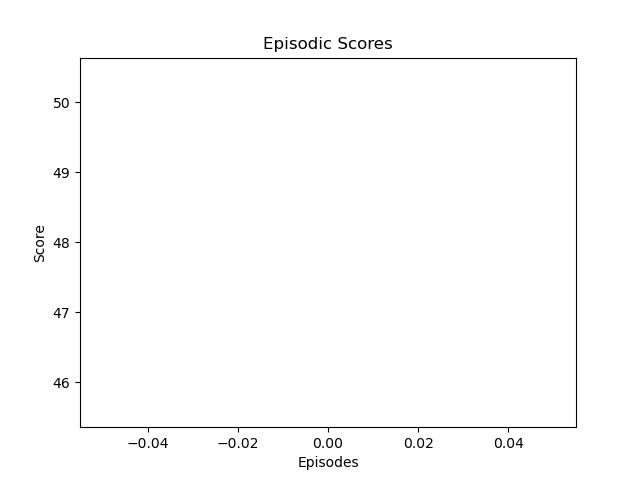
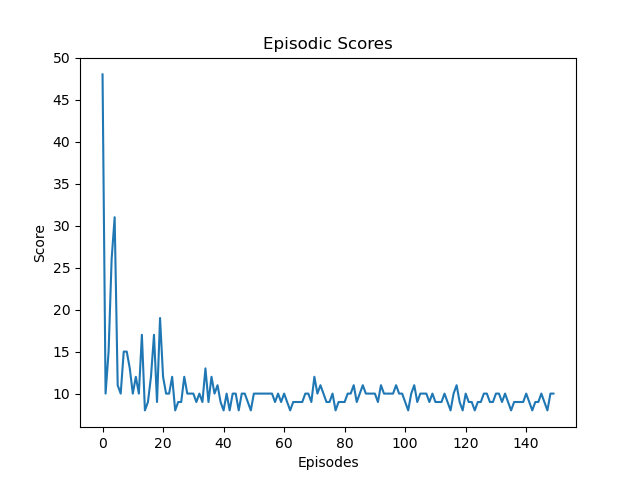
better plots for the max of 123 seed

diff --git a/ddqn/test_123.py b/ddqn/test_123.py
@@ -1,0 +1,68 @@
+# test the agent
+import gym
+import pickle
+import os
+import argparse
+import random
+import json
+import numpy as np
+import keras
+import tensorflow as tf
+
+parser = argparse.ArgumentParser()
+parser.add_argument("--exp", type=str, default="default")
+
+args = parser.parse_args()
+experience_name = args.exp
+
+DRIVE = False
+
+if DRIVE:
+    PREFIX = "../../drive/MyDrive/policy/"
+else:
+    PREFIX = ""
+
+PATH = PREFIX + "logs/" + experience_name + "/"
+
+if not os.path.exists(PATH):
+    os.makedirs(PATH)
+
+Q_table = None
+
+env = gym.make("CartPole-v0")
+observation = env.reset()
+
+reward_history = []
+
+# load model with tf
+# config model network
+json_file = open(PATH + "final_regular_model_architecture.json", "r")
+loaded_model_json = json_file.read()
+json_file.close()
+loaded_model = keras.models.model_from_json(loaded_model_json)
+loaded_model.load_weights(PATH + "final_regular_network_weights.h5")
+
+
+model = loaded_model
+
+# iterate through 100 episodes
+for episode in range(100):
+    observation = env.reset()
+    episode_reward = 0
+    # iterate through 200 steps
+    done = False
+    while done == False:
+        action = np.argmax(model.predict(observation.reshape(1, 4)))
+        observation, reward, done, info = env.step(action)
+        episode_reward += reward
+        if done:
+            break
+    print(episode_reward)
+    reward_history.append(episode_reward)
+
+with open(PATH + "test_episode_rewards.json", "w") as f:
+    JSON_object = {
+        "episode_rewards": reward_history,
+        "average_reward": np.mean(reward_history),
+    }
+    json.dump(JSON_object, f)

diff --git a/ddqn/logs/plot.py b/ddqn/logs/plot.py
@@ -34,7 +34,7 @@ if __name__ == "__main__":
         ["./SEED_0_DDQN/max_info.json", "seed_0_DDQN"],
         ["./SEED_0_DDQN_04/max_info.json", "SEED_0_DDQN_04"],
         ["./SEED_0_DDQN_06/max_info.json", "SEED_0_DDQN_06"],
-        ["./SEED_123_DDQN/max_info.json", "seed_123_DDQN"],
+        ["./SEED_123_DDQN/final_info.json", "seed_123_DDQN"],
     ]
 
     for element in file_names:
